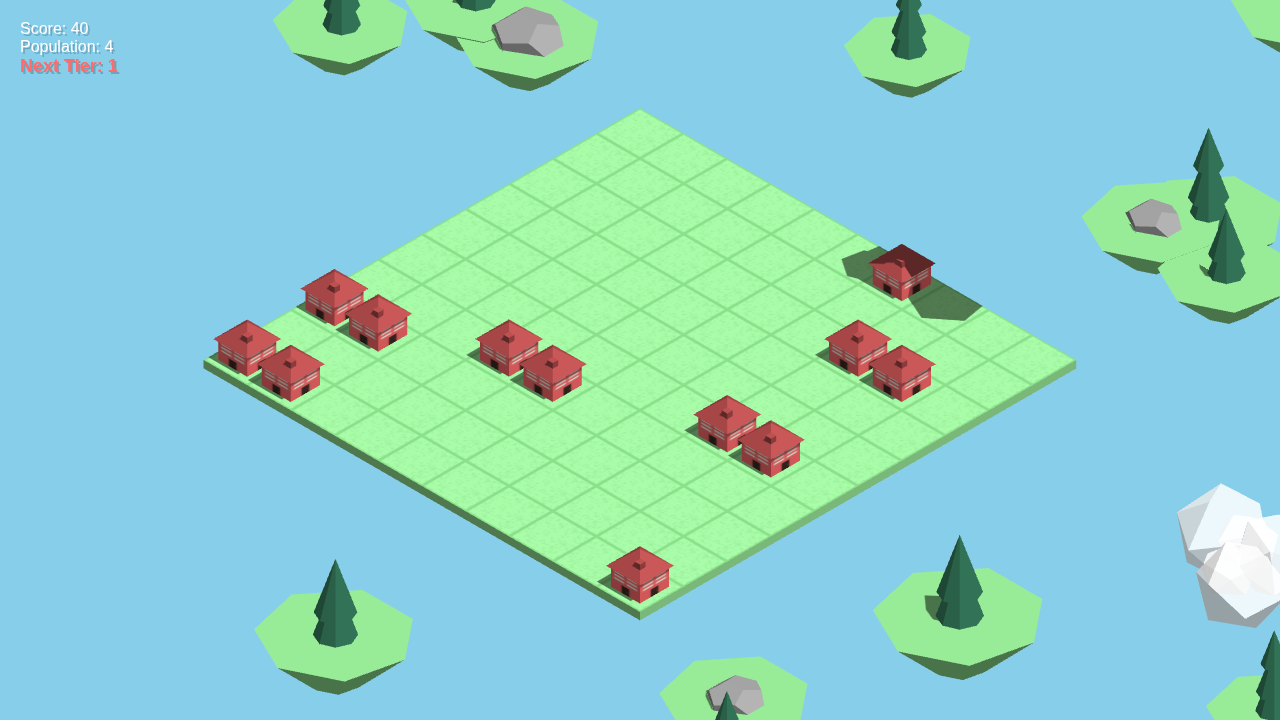
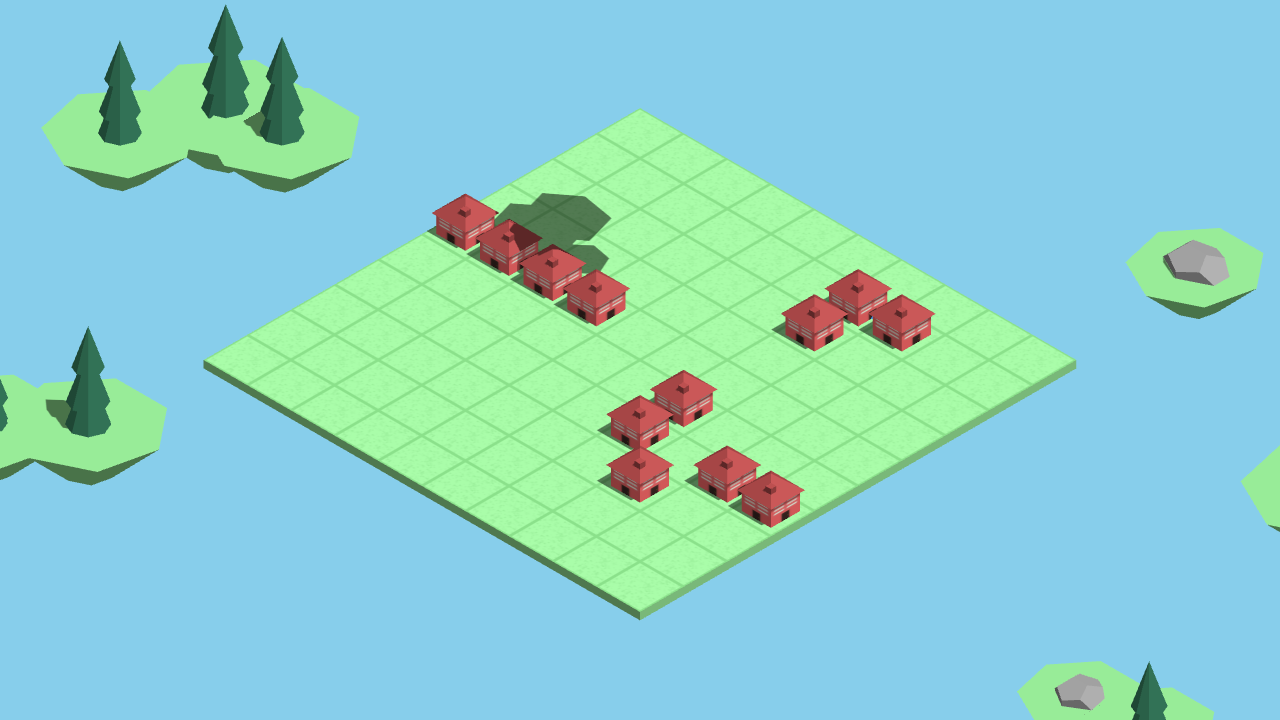
feat: resolve conflicts and optimize ui update performance

diff --git a/main.js b/main.js
@@ -373,28 +373,22 @@ function createBuildingMesh(tier) {
     }
 
     if (t === -2) {
-        // Nature Obstacle (Tree)
+        // Nature Obstacle (Rock)
         const group = new THREE.Group();
 
-        // Tree Geometry & Material (Recreated here for grid placement)
-        // Ideally we'd cache these geometries in ASSETS but for now it's okay
-        const trunkGeo = new THREE.CylinderGeometry(0.15, 0.2, 0.4, 6);
-        const leavesGeo = new THREE.ConeGeometry(0.5, 1.2, 8);
+        // Rock Geometry & Material (matching generateEnvironment logic)
+        const rockGeo = new THREE.DodecahedronGeometry(0.5);
+        const rockMat = getMaterial('standard', { color: 0x888888, roughness: 0.6, flatShading: true });
 
-        const trunkMat = getMaterial('standard', { color: 0x5d4037, roughness: 0.9, flatShading: true });
-        const leavesMat = getMaterial('standard', { color: 0x2d6a4f, roughness: 0.8, flatShading: true });
+        const rock = new THREE.Mesh(rockGeo, rockMat);
+        rock.castShadow = true;
+        rock.receiveShadow = true;
+        rock.position.y = 0.25; // slightly above ground
 
-        const trunk = new THREE.Mesh(trunkGeo, trunkMat);
-        trunk.position.y = 0.2;
-        trunk.castShadow = true;
-        trunk.receiveShadow = true;
+        // Random scale variation
+        rock.scale.set(1 + Math.random(), 0.5 + Math.random()*0.5, 1 + Math.random());
 
-        const leaves = new THREE.Mesh(leavesGeo, leavesMat);
-        leaves.position.y = 0.8;
-        leaves.castShadow = true;
-        leaves.receiveShadow = true;
-
-        group.add(trunk, leaves);
+        group.add(rock);
 
         // Random slight rotation/scale for variety
         group.rotation.y = Math.random() * Math.PI * 2;
